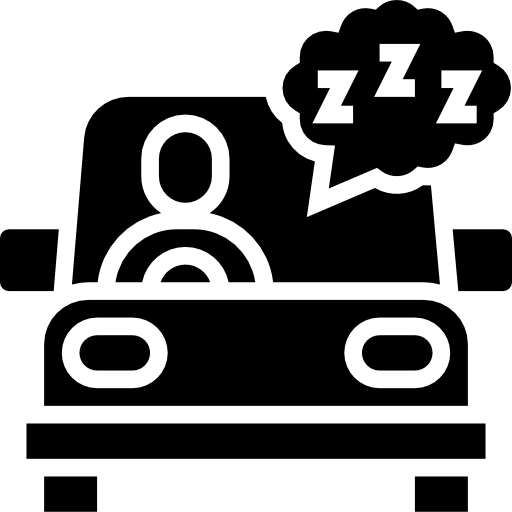
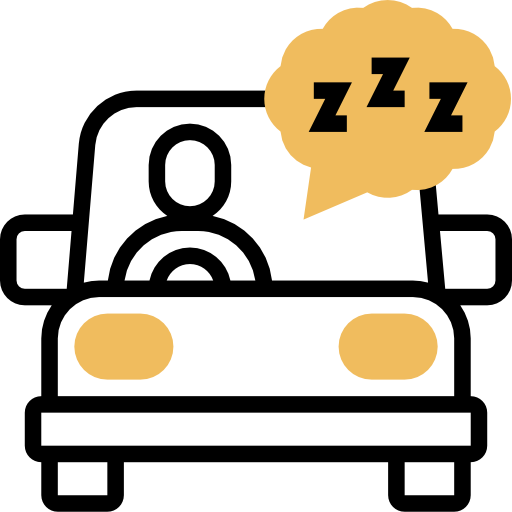
Feat : 내 경로로 찾기 기능 추가

diff --git a/src/utils/journey.js b/src/utils/journey.js
@@ -1,0 +1,70 @@
+import { areaDirections } from './directionGroups.js'
+const aliases={'서울외곽순환':'수도권제1순환','대전통영':'통영대전','당진영덕':'청주영덕','상주영덕':'청주영덕','대구포항':'새만금포항','익산장수':'완주장수','구리포천':'세종포천','남해제2지':'남해2지'}
+export function roadKey(value){const name=String(value||'').replace(/\([^)]*\)/g,'').replace(/고속도로/g,'').replace(/\s/g,'').replace(/선$/,'');return aliases[name]||name}
+export const sameRoad=(a,b)=>roadKey(a)===roadKey(b)
+export function journeyHighways(sections){
+ const groups=new Map()
+ for(const section of sections||[])for(const road of section.roads||[]){
+  const name=String(road.name||'').trim()
+  if(!/고속도로(?:지선)?(?:\([^)]*\))?$/.test(name))continue
+  if(!groups.has(name))groups.set(name,{name,distance:0})
+  const group=groups.get(name)
+  if(Number.isFinite(road.distance)&&road.distance>=0)group.distance+=road.distance
+ }
+ return [...groups.values()]
+}
+// Approximate direction-city centres; used only for estimated heading, not entrances.
+const centres={서울:[126.978,37.567],부산:[129.076,35.180],순천:[127.488,34.950],대구:[128.602,35.871],무안:[126.481,34.990],시흥:[126.803,37.380],목포:[126.392,34.812],논산:[127.099,36.188],광양:[127.696,34.940],전주:[127.148,35.824],상주:[128.159,36.411],청원:[127.431,36.565],하남:[127.215,37.540],통영:[128.433,34.855],평택:[127.113,36.993],제천:[128.191,37.132],현풍:[128.447,35.698],마산:[128.573,35.197],양평:[127.487,37.491],인천:[126.705,37.456],강릉:[128.876,37.752],춘천:[127.730,37.881],양양:[128.619,38.075],동해:[129.114,37.525],속초:[128.591,38.207],퇴계원:[127.143,37.650],냉정:[128.808,35.215],서천:[126.692,36.080],공주:[127.119,36.446],대전:[127.385,36.350],밀양:[128.746,35.504],울산:[129.311,35.539],익산:[126.958,35.948],포항:[129.343,36.019],일산:[126.769,37.658],판교:[127.104,37.393],창원:[128.681,35.228],남이:[127.423,36.565],천안:[127.147,36.815],영암:[126.697,34.800],남양주:[127.217,37.636],동탄:[127.070,37.200],봉담:[126.950,37.220],광주:[126.852,35.160],원주:[127.920,37.342],강진:[126.768,34.642],영덕:[129.366,36.416],장수:[127.521,35.648],완주:[127.163,35.904],산인:[128.429,35.286],진주:[128.108,35.180],포천:[127.201,37.895],세종:[127.289,36.480],김해:[128.890,35.228],기장:[129.222,35.244]}
+Object.assign(centres,{구리:[127.129,37.594],근덕:[129.225,37.380],삼척:[129.165,37.450],청주:[127.489,36.640],회덕:[127.426,36.400],산내:[127.453,36.280],고창:[126.702,35.436],담양:[126.988,35.321],달서:[128.533,35.831],동대구:[128.628,35.878],언양:[129.125,35.570],당진:[126.628,36.893],파주:[126.780,37.760],양주:[127.045,37.785],새만금:[126.500,35.820]})
+const xy=point=>[point.lng*89000,point.lat*111000]
+function makeSegments(paths,name){
+ const list=[];let offset=0
+ for(const road of paths||[])if(road.name===name)for(let i=1;i<road.points.length;i++){
+  const a=xy(road.points[i-1]),b=xy(road.points[i]),dx=b[0]-a[0],dy=b[1]-a[1],length=Math.hypot(dx,dy)
+  if(length>0){list.push({a,b,dx,dy,length,offset});offset+=length}
+ }
+ return list
+}
+function atDistance(segments,distance){
+ const last=segments.at(-1)
+ const d=Math.max(0,Math.min(distance,last.offset+last.length))
+ const s=segments.find(segment=>segment.offset+segment.length>=d)||last,t=(d-s.offset)/s.length
+ return [s.a[0]+t*s.dx,s.a[1]+t*s.dy]
+}
+function locate(point,segments){
+ const [x,y]=xy(point);let best=null
+ for(const s of segments){
+  const raw=((x-s.a[0])*s.dx+(y-s.a[1])*s.dy)/(s.length*s.length),t=Math.max(0,Math.min(1,raw))
+  const px=s.a[0]+t*s.dx,py=s.a[1]+t*s.dy,distance=Math.hypot(x-px,y-py)
+  if(!best||distance<best.distance)best={x:px,y:py,distance,offset:s.offset+t*s.length,raw,segment:s}
+ }
+ if(!best||best.distance>1200)return null
+ if(best.segment===segments[0]&&best.raw<0||best.segment===segments.at(-1)&&best.raw>1)return null
+ const before=atDistance(segments,best.offset-1000),after=atDistance(segments,best.offset+1000)
+ const dx=after[0]-before[0],dy=after[1]-before[1],length=Math.hypot(dx,dy)
+ return length?{...best,dx:dx/length,dy:dy/length}:null
+}
+export function journeyGroups(route,areas,shelters){
+ return (route.highways||[]).map(road=>{
+  const segments=makeSegments(route.paths,road.name), stops=[];let unverified=0
+  for(const [type,rows] of [['rest',areas],['shelter',shelters]])for(const area of rows.filter(area=>sameRoad(area.routeName,road.name))){
+   if(!area.coordinates){unverified++;continue}
+   const match=locate(area.coordinates,segments)
+   if(!match)continue
+   const directions=type==='rest'?areaDirections(area):[String(area.direction||'').replace(/방향$/,'').trim()]
+   let direction=null
+   if(directions.includes('양방향'))direction='양방향'
+   else{
+    const scores=directions.filter(label=>centres[label]).map(label=>{
+     const [lng,lat]=label==='광주'&&/광주원주/.test(roadKey(road.name))?[127.255,37.429]:centres[label],[x,y]=xy({lng,lat}),dx=x-match.x,dy=y-match.y
+     return {label,score:(dx*match.dx+dy*match.dy)/Math.hypot(dx,dy)}
+    })
+    const forward=scores.filter(value=>value.score>.35)
+    if(forward.length===1)direction=forward[0].label
+    else if(!scores.length||scores.some(value=>Math.abs(value.score)<=.35))unverified++
+   }
+   if(direction)stops.push({...area,kind:type,journeyDirection:direction,journeyOffset:match.offset})
+  }
+  return {...road,stops:stops.sort((a,b)=>a.journeyOffset-b.journeyOffset),unverified}
+ })
+}

diff --git a/src/components/RouteSearch.jsx b/src/components/RouteSearch.jsx
@@ -1,3 +1,4 @@
+import { RotateCcw } from 'lucide-react'
 import { useEffect, useRef, useState } from 'react'
 import { request } from '../services/api'
 import PlaceField from './PlaceField'
@@ -5,6 +6,8 @@ import { Search, Swap, Route } from './Icons'
 export default function RouteSearch({ onRoute, currentRoute }) {
   const [origin, setOrigin] = useState(null), [destination, setDestination] = useState(null), [loading, setLoading] = useState(false), [error, setError] = useState('')
   const controllerRef = useRef(null)
+  const [resetVersion,setResetVersion]=useState(0)
+  function reset(){controllerRef.current?.abort();setOrigin(null);setDestination(null);setLoading(false);setError('');setResetVersion(value=>value+1);onRoute(null)}
   useEffect(() => () => controllerRef.current?.abort(), [])
   function change(setter, point) { controllerRef.current?.abort(); setter(point); setLoading(false); setError(''); onRoute(null) }
   async function submit(event) {
@@ -12,9 +15,9 @@ export default function RouteSearch({ onRoute, currentRoute }) {
     if (!origin || !destination) { setError('각 입력창의 검색 버튼을 누른 뒤 검색 결과에서 장소를 선택해 주세요.'); return }
     controllerRef.current?.abort(); const controller = new AbortController(); controllerRef.current = controller
     setLoading(true); setError(''); onRoute(null)
-    try { const result = await request('route', { origin: `${origin.lng},${origin.lat}`, destination: `${destination.lng},${destination.lat}` }, controller.signal); onRoute({ ...result, origin, destination }) }
+    try { const result = await request('route', { origin: `${origin.lng},${origin.lat}`, destination: `${destination.lng},${destination.lat}` }, controller.signal); if(!controller.signal.aborted)onRoute({ ...result, origin, destination }) }
     catch (e) { if (e.name !== 'AbortError') setError(e.message) }
     finally { if (!controller.signal.aborted) setLoading(false) }
   }
-  return <section className="route-search"><div className="route-search-heading"><div><h2>나의 이동 경로 찾기</h2><p>주소 또는 장소명을 검색하고, 검색 결과에서 장소를 선택하세요.</p></div><span className="small-badge"><Route size={12} /> 자동차 기준</span></div><form className="route-form" onSubmit={submit}><PlaceField label="출발지" variant="origin" point={origin} onChange={point => change(setOrigin, point)} /><button className="swap-button" type="button" aria-label="선택한 출발지와 목적지 바꾸기" disabled={!origin || !destination} onClick={() => { controllerRef.current?.abort(); setOrigin(destination); setDestination(origin); setLoading(false); setError(''); onRoute(null) }}><Swap size={18} /></button><PlaceField label="도착지" variant="destination" point={destination} onChange={point => change(setDestination, point)} /><button type="submit" className="button primary" disabled={loading}><Search size={18} /> {loading ? '경로 조회 중…' : '경로 검색'}</button></form>{error && <p className="form-error" role="alert">{error}</p>}{currentRoute && <div className="route-result" role="status"><strong>{currentRoute.origin.name} → {currentRoute.destination.name}</strong><span>{currentRoute.distance == null ? '거리 정보 없음' : `${(currentRoute.distance / 1000).toFixed(1)} km`}</span><span>{currentRoute.duration == null ? '시간 정보 없음' : `${Math.floor(currentRoute.duration / 3600)}시간 ${Math.round((currentRoute.duration % 3600) / 60)}분`}</span><small>출처: 카카오모빌리티 · 예상 소요시간</small></div>}</section>
+  return <section className="route-search"><div className="route-search-heading"><div><h2>나의 이동 경로 찾기</h2><p>주소 또는 장소명을 검색하고, 검색 결과에서 장소를 선택하세요.</p></div><div className="route-heading-actions"><span className="small-badge"><Route size={12} /> 자동차 기준</span><button type="button" className="route-reset" onClick={reset}><RotateCcw size={14}/>처음 화면</button></div></div><form className="route-form" onSubmit={submit}><PlaceField key={`origin:${resetVersion}`} label="출발지" variant="origin" point={origin} onChange={point => change(setOrigin, point)} /><button className="swap-button" type="button" aria-label="선택한 출발지와 목적지 바꾸기" disabled={!origin || !destination} onClick={() => { controllerRef.current?.abort(); setOrigin(destination); setDestination(origin); setLoading(false); setError(''); onRoute(null) }}><Swap size={18} /></button><PlaceField key={`destination:${resetVersion}`} label="도착지" variant="destination" point={destination} onChange={point => change(setDestination, point)} /><button type="submit" className="button primary" disabled={loading}><Search size={18} /> {loading ? '경로 조회 중…' : '경로 검색'}</button></form>{error && <p className="form-error" role="alert">{error}</p>}{currentRoute && <div className="route-result" role="status"><strong>{currentRoute.origin.name} → {currentRoute.destination.name}</strong><span>{currentRoute.distance == null ? '거리 정보 없음' : `${(currentRoute.distance / 1000).toFixed(1)} km`}</span><span>{currentRoute.duration == null ? '시간 정보 없음' : `${Math.floor(Math.ceil(currentRoute.duration/60)/60)}시간 ${Math.ceil(currentRoute.duration/60)%60}분`}</span><small>출처: 카카오모빌리티 · 예상 소요시간</small></div>}</section>
 }

diff --git a/src/components/RouteJourney.jsx b/src/components/RouteJourney.jsx
@@ -1,0 +1,44 @@
+import {useEffect,useMemo,useState} from 'react'
+import {request} from '../services/api'
+import {journeyGroups,sameRoad} from '../utils/journey'
+import {directionLabel} from '../utils/directionGroups'
+import {roadOptions,shelterRoadOption} from '../utils/roadRoutes'
+import RoadBadge from './RoadBadge'
+import HighwayIcon from './HighwayIcon'
+import {Chevron,Refresh} from './Icons'
+export default function RouteJourney({route,data,catalogueError,onCatalogueRetry,onSelect,onShelter,onMatches}) {
+ const [kind,setKind]=useState('all')
+ const [points,setPoints]=useState([]),[loading,setLoading]=useState(true),[issue,setIssue]=useState(''),[retry,setRetry]=useState(0)
+ useEffect(()=>{
+  if(!data){setLoading(!catalogueError);setIssue(catalogueError||'');return}
+  const controller=new AbortController();setLoading(true);setIssue('');setPoints([])
+  async function load(){
+   const result=await request('journey-points',{origin:`${route.origin.lng},${route.origin.lat}`,destination:`${route.destination.lng},${route.destination.lat}`},controller.signal)
+   if(controller.signal.aborted)return
+   setPoints(result.points||[]);setLoading(false)
+   setIssue([result.shelterError,result.failed?`위치 조회에 실패한 ${result.failed}곳이 있습니다.`:''].filter(Boolean).join(' '))
+  }
+  load().catch(error=>{if(!controller.signal.aborted){setIssue(error.message);setLoading(false)}})
+  return()=>controller.abort()
+ },[route,data,retry,catalogueError])
+ const groups=useMemo(()=>journeyGroups(route,points.filter(row=>row.kind==='rest'),points.filter(row=>row.kind==='shelter')),[route,points])
+ useEffect(()=>{onMatches?.(groups.flatMap(group=>group.stops))},[groups,onMatches])
+ return <section className="journey-panel" aria-label="경로별 휴게소와 졸음쉼터"><header><div><h2>이번 경로의 쉼터</h2><p>고속도로 이용 순서 · 진행방향 기준</p></div><button type="button" className="text-button" disabled={loading} onClick={()=>data?setRetry(value=>value+1):onCatalogueRetry?.()} aria-label="경로 쉼터 다시 조회"><Refresh size={15}/></button></header>
+  {!groups.length?<p className="journey-message">이 경로에는 고속도로 명칭이 제공되지 않았습니다.</p>:<>
+   <ol className="journey-road-flow">{groups.map(road=><li key={road.name}>{road.name}</li>)}</ol>
+   {loading&&<p className="journey-message" role="status">진행방향의 휴게소와 졸음쉼터 위치를 확인하고 있습니다…</p>}
+   {issue&&<p className="journey-message" role="alert">{issue}</p>}
+   {!loading&&data&&<div className="journey-kind-filters" role="group" aria-label="경로 쉼터 종류">{[['all','전체'],['rest','휴게소'],['shelter','졸음쉼터']].map(([value,label])=><button type="button" key={value} aria-pressed={kind===value} className={kind===value?'active':''} onClick={()=>setKind(value)}>{label} <strong>{groups.reduce((sum,road)=>sum+road.stops.filter(area=>value==='all'||area.kind===value).length,0)}</strong></button>)}</div>}
+   {!loading&&data&&<div className="journey-road-groups">{groups.map(road=>{
+    const options=roadOptions((data?.rows||[]).filter(area=>sameRoad(road.name,area.routeName)))
+    const number=options[0]?.number||shelterRoadOption(points.find(area=>sameRoad(area.routeName,road.name))?.routeName).number
+    const rests=road.stops.filter(row=>row.kind==='rest').length,shelters=road.stops.length-rests
+    return <article key={road.name} className="journey-road-group"><header>{number&&<RoadBadge type="expressway" number={number}/>}<div><h3>{road.name}</h3><p>{(road.distance/1000).toFixed(1)} km 이용 · 휴게소 {rests} · {issue.includes('졸음쉼터 자료')?'졸음쉼터 조회 실패':`졸음쉼터 ${shelters}`}</p></div></header>
+     {!road.stops.filter(area=>kind==='all'||area.kind===kind).length?<p className="journey-empty">위치·진행방향이 일치하는 쉼터를 확인하지 못했습니다.</p>:<div className="journey-stops">{road.stops.filter(area=>kind==='all'||area.kind===kind).map(area=><button type="button" key={`${area.kind}:${area.id}`} onClick={()=>area.kind==='shelter'?onShelter(area):onSelect(area)}><span className={`journey-kind ${area.kind}`}>{area.kind==='rest'?'휴게소':'졸음쉼터'}</span><span className="journey-stop-name"><strong>{area.name}{area.kind==='shelter'&&!area.name.includes('졸음쉼터')?' 졸음쉼터':''}</strong><small><HighwayIcon size={12}/>{directionLabel(area.journeyDirection)}</small></span><Chevron size={15}/></button>)}</div>}
+     {road.unverified>0&&<p className="journey-exclusions">해당 노선 위치·방향 미확인 {road.unverified}곳 제외</p>}
+    </article>
+   })}</div>}
+  </>}
+  <p className="journey-caption">경로 주변 1.2km 이내 위치와 진행방향으로 추린 참고 정보입니다. 양방향 휴게소를 포함하며 실제 진입 가능 여부는 길찾기로 확인하세요.</p>
+ </section>
+}

diff --git a/src/components/LiveMap.jsx b/src/components/LiveMap.jsx
@@ -1,3 +1,4 @@
+import shelterIcon from '../../icons/shelter-pin.svg'
 import { LocateFixed, ExternalLink, Camera, Map as MapIcon } from 'lucide-react'
 import { useEffect, useRef, useState } from 'react'
 import { Pin, Layers, Info } from './Icons'
@@ -62,9 +63,10 @@ export default function LiveMap({ apiKey, route, areas, onSelect, selectedId, sh
     }
     for (const area of areas.filter(area => area.coordinates)) {
       const point = new maps.LatLng(area.coordinates.lat, area.coordinates.lng)
+      const isShelter=area.kind==='shelter'
       const width = area.id === selectedId ? 56 : 48
       const height = area.id === selectedId ? 74 : 64
-      const image = new maps.MarkerImage(restAreaPin, new maps.Size(width, height), { offset: new maps.Point(width / 2, height) })
+      const image = new maps.MarkerImage(isShelter?shelterIcon:restAreaPin, new maps.Size(width, height), { offset: new maps.Point(width / 2, height) })
       const marker = new maps.Marker({ map, position: point, title: area.name, image, zIndex: area.id === selectedId ? 10 : 1 })
       maps.event.addListener(marker, 'click', () => onSelect?.(area))
       objects.current.push(marker)
@@ -99,7 +101,7 @@ export default function LiveMap({ apiKey, route, areas, onSelect, selectedId, sh
     }catch{clearTimeout(timer);setStreetStatus('거리뷰를 연결하지 못했습니다. 잠시 후 다시 시도해 주세요.')}
     return()=>{active=false;clearTimeout(timer)}
   },[streetView,ready,target?.id,target?.coordinates?.lat,target?.coordinates?.lng])
-  return <section className={`map-pane ${locationOnly?'location-only':''} ${streetView?'is-roadview':''}`} aria-label="휴게소 위치 지도">{!locationOnly&&<div className="map-toolbar"><span><Layers size={16} /> {title}</span><span className={`small-badge ${ready ? 'success' : ''}`}>{ready ? `Kakao Maps · 위치 ${areas.filter(area=>area.coordinates).length}곳` : '지도 연결 대기'}</span></div>}<div ref={host} className="map-canvas" />{!ready && <div className="map-state"><div className="map-grid" aria-hidden="true" /><div className="map-message"><span className="map-message-icon"><Pin size={31} /></span><h3>{error ? '지도 연결을 확인해 주세요' : apiKey ? '지도를 불러오는 중입니다' : '여행의 경로를 한눈에'}</h3><p>{error || (apiKey ? '잠시만 기다려 주세요.' : '지도 서비스 연결 후 실제 자동차 경로와\n공식 주소에서 확인한 휴게소 위치를 표시합니다.')}</p>{error && <button className="button secondary" onClick={() => setRetry(value => value + 1)}>다시 연결</button>}<span className="map-state-caption"><Info size={13} /> 실제 지도 연결 전 안내 화면</span></div></div>}{!locationOnly&&<div className="map-legend">{!locationOnly&&<span><i /> 자동차 이동 경로</span>}<span><img src={restAreaIcon} width="18" height="18" alt="" /> 휴게소 · 주소 기반 위치</span></div>}{locationOnly&&<>
+  return <section className={`map-pane ${locationOnly?'location-only':''} ${streetView?'is-roadview':''}`} aria-label="휴게소 위치 지도">{!locationOnly&&<div className="map-toolbar"><span><Layers size={16} /> {title}</span><span className={`small-badge ${ready ? 'success' : ''}`}>{ready ? `Kakao Maps · 위치 ${areas.filter(area=>area.coordinates).length}곳` : '지도 연결 대기'}</span></div>}<div ref={host} className="map-canvas" />{!ready && <div className="map-state"><div className="map-grid" aria-hidden="true" /><div className="map-message"><span className="map-message-icon"><Pin size={31} /></span><h3>{error ? '지도 연결을 확인해 주세요' : apiKey ? '지도를 불러오는 중입니다' : '여행의 경로를 한눈에'}</h3><p>{error || (apiKey ? '잠시만 기다려 주세요.' : '지도 서비스 연결 후 실제 자동차 경로와\n공식 주소에서 확인한 휴게소 위치를 표시합니다.')}</p>{error && <button className="button secondary" onClick={() => setRetry(value => value + 1)}>다시 연결</button>}<span className="map-state-caption"><Info size={13} /> 실제 지도 연결 전 안내 화면</span></div></div>}{!locationOnly&&<div className="map-legend">{!locationOnly&&<span><i /> 자동차 이동 경로</span>}<span><img src={restAreaIcon} width="18" height="18" alt="" /> 휴게소 · 주소 기반 위치</span>{areas.some(area=>area.kind==='shelter')&&<span><img src={shelterIcon} width="18" height="18" alt=""/>졸음쉼터</span>}</div>}{locationOnly&&<>
       {streetView&&<div className="location-roadview"><div ref={roadviewHost} className="location-roadview-canvas" aria-label={`${target?.name||'휴게소'} 거리뷰`}/>{streetStatus&&<p className="roadview-status" role="status">{streetStatus}</p>}</div>}
       <div className="location-map-actions">
         <button type="button" onClick={resetPosition} disabled={!ready}><LocateFixed size={15}/>원래 위치</button>

diff --git a/src/dashboard.css b/src/dashboard.css
@@ -98,3 +98,9 @@
 .brand-store-hours{flex-wrap:wrap;row-gap:8px}.brand-business-status{display:inline-flex;align-items:center;gap:5px;margin-left:auto;white-space:nowrap;font-size:11px;font-weight:700;letter-spacing:0}.brand-business-status i{width:5px;height:5px;border-radius:50%;background:currentColor;flex-shrink:0}.brand-business-status.open{color:#247956}.brand-business-status.closing{color:#b77914}.brand-business-status.closed,.brand-business-status.unknown{color:#94a0aa}
 
 .shelter-grid>button.shelter-card{display:block;width:100%;text-align:left;font:inherit;color:inherit;cursor:pointer}.shelter-grid>button.shelter-card:hover{border-color:#8eb8b2}.shelter-detail-road{display:flex;align-items:center;gap:10px;padding:4px 0 16px}.shelter-detail-road>strong{font-size:14px}.shelter-detail-road>span:last-child{margin-left:auto;display:flex;align-items:center;gap:6px;color:#5b807f;font-size:12px}
+
+.journey-panel{padding:22px;min-width:0;border-left:1px solid #e0e8ee;max-height:680px;overflow:auto}.journey-panel>header{display:flex;align-items:center;justify-content:space-between;gap:12px;margin-bottom:16px}.journey-panel h2{font-size:18px}.journey-panel header p{font-size:11px;color:#8597a3;margin-top:5px;line-height:1.7}.journey-road-flow{display:flex;flex-wrap:wrap;gap:7px;list-style:none;padding:0;margin:0 0 16px}.journey-road-flow li{font-size:11px;color:#3d7379;padding:6px 8px;background:#edf5f4;border-radius:4px}.journey-road-groups{display:grid;gap:16px}.journey-road-group{border:1px solid #dce6ec;border-radius:9px;overflow:hidden}.journey-road-group>header{display:flex;align-items:center;gap:9px;background:#f6f9fa;padding:13px}.journey-road-group h3{font-size:13px;line-height:1.6}.journey-stops{padding:0 12px}.journey-stops>button{display:flex;align-items:center;gap:9px;width:100%;min-width:0;border:0;border-bottom:1px solid #edf1f4;background:white;padding:13px 0;text-align:left;color:#385362}.journey-stops>button:last-child{border-bottom:0}.journey-stops>button:hover{color:#148478}.journey-kind{flex-shrink:0;font-size:9px;color:#407f71;background:#edf6f1;padding:4px 5px;border-radius:4px}.journey-kind.shelter{color:#5f78a1;background:#eff3fa}.journey-stop-name{flex:1;min-width:0}.journey-stop-name strong{display:block;font-size:12px;overflow-wrap:anywhere}.journey-stop-name small{display:flex;align-items:center;gap:4px;margin-top:5px;color:#8a9ca7;font-size:10px}.journey-message,.journey-empty{font-size:12px;color:#8395a1;padding:15px 10px;line-height:1.9}.journey-exclusions{font-size:10px;color:#98a6af;padding:8px 12px;border-top:1px solid #edf1f4}.journey-caption{margin-top:18px;font-size:10px;line-height:1.9;color:#91a0aa}@media(max-width:850px){.journey-panel{border-left:0;border-top:1px solid #e0e8ee;max-height:none}.journey-road-groups{grid-template-columns:repeat(2,minmax(0,1fr))}}@media(max-width:600px){.journey-panel{padding:18px 16px}.journey-road-groups{grid-template-columns:minmax(0,1fr)}}
+
+.route-heading-actions{display:flex;align-items:center;gap:12px;margin-left:auto}.route-reset{display:inline-flex;align-items:center;justify-content:center;gap:6px;border:1px solid #dce6eb;border-radius:6px;background:white;padding:7px 10px;font-size:11px;color:#617e89;white-space:nowrap}.route-reset:hover{background:#f0f7f5;color:#226e64}@media(max-width:600px){.route-heading-actions .small-badge{display:none}.route-reset{font-size:10px;padding:6px 8px}.route-search-heading{align-items:flex-start}.route-search-heading>div:first-child{min-width:0;flex:1}}
+
+.journey-kind-filters{display:flex;flex-wrap:wrap;gap:7px;margin:0 0 15px}.journey-kind-filters button{display:flex;align-items:center;gap:6px;padding:7px 9px;border:1px solid #dbe5e9;border-radius:5px;background:white;font-size:11px;color:#7b8d98}.journey-kind-filters button.active{background:#eff7f4;border-color:#8db8af;color:#2b7868}.journey-kind-filters strong{font-size:10px;font-variant-numeric:tabular-nums}

diff --git a/server/api.js b/server/api.js
@@ -1,3 +1,4 @@
+import { journeyHighways, sameRoad } from '../src/utils/journey.js'
 import { geocodeArea, shelterPlace, coordinates as geocodedCoordinates } from './geocoding.js'
 import fs from 'node:fs'
 import { operationFor, foodHoursFor } from './rest-area-info.js'
@@ -215,6 +216,7 @@ async function route(search) {
   }
   const url = new URL('https://apis-navi.kakaomobility.com/v1/directions')
   url.search = new URLSearchParams({ origin: point(search.get('origin')), destination: point(search.get('destination')), summary: 'false', road_details: 'true', alternatives: 'false', priority: 'RECOMMEND' }).toString()
+  return cached(`directions:${key}:${url.search}`,async()=>{
   const body = await fetchJson(url, { Authorization: `KakaoAK ${key}` })
   const result = body.routes?.[0]
   if (!result || result.result_code !== 0) throw new ApiError('자동차 이동 경로를 찾을 수 없습니다. 다른 장소를 선택해 주세요.', 422, 'ROUTE_NOT_FOUND')
@@ -227,7 +229,31 @@ async function route(search) {
     }
     if (points.length) paths.push({ name: text(road.name), points })
   }
-  return { distance: number(result.summary?.distance), duration: number(result.summary?.duration), paths, source: '카카오모빌리티', restAreas: [], matchingStatus: 'unverified', matchingMessage: '휴게소 진입 방향·도로 연결 정보가 없어 경로상 휴게소를 아직 확정할 수 없습니다. 아래 목록은 전체 휴게소입니다.' }
+  return { distance: number(result.summary?.distance), duration: number(result.summary?.duration), paths, highways:journeyHighways(result.sections), source:'카카오모빌리티', matchingMessage:'휴게소·졸음쉼터는 경로 주변 위치와 진행방향을 대조한 참고 정보입니다. 실제 진입은 현장 안내와 길찾기를 확인하세요.' }
+  })
+}
+async function journeyPoints(search) {
+  const routeData=await route(search),env=settings()
+  const cacheKey=`journey-points:${search.get('origin')}:${search.get('destination')}:${env.EX_API_KEY}:${env.KAKAO_REST_API_KEY||env.ROUTE_API_KEY}`
+  const result=await cached(cacheKey,async()=>{
+    const data=await areas()
+    let shelterRows=[],shelterError=''
+    try{shelterRows=(await shelters()).rows}catch{ shelterError='졸음쉼터 자료를 불러오지 못했습니다.' }
+    const relevant=area=>(routeData.highways||[]).some(road=>sameRoad(road.name,area.routeName))
+    const tasks=[...data.rows.filter(relevant).map(area=>({...area,kind:'rest'})),...shelterRows.filter(relevant).map(area=>({...area,kind:'shelter'}))]
+    const points=[];let cursor=0,failed=0
+    async function worker(){while(cursor<tasks.length){
+      const area=tasks[cursor++]
+      try{
+        const point=area.coordinates?area:area.kind==='rest'?await areaPoint(area):(await shelterPoint(area.id)).row
+        points.push({...area,coordinates:point?.coordinates||null,address:point?.address||area.address})
+      }catch{failed++;points.push({...area,coordinates:null})}
+    }}
+    await Promise.all(Array.from({length:4},worker))
+    return {points,failed,shelterError}
+  })
+  if(result.failed||result.shelterError)cache.delete(cacheKey)
+  return result
 }
 async function parkingData() {
   const key = settings().PARKING_API_KEY || settings().ODCLOUD_API_KEY
@@ -300,6 +326,7 @@ export async function api(path, search) {
   if (path === '/api/map-point') return mapPoint(search.get('id'))
   if (path === '/api/map-points') return mapPoints()
   if (path === '/api/places') return places(search.get('query') || '')
+  if (path === '/api/journey-points') return journeyPoints(search)
   if (path === '/api/route') return route(search)
   throw new ApiError('요청한 API가 없습니다.', 404, 'NOT_FOUND')
 }

diff --git a/tests/journey.test.js b/tests/journey.test.js
@@ -1,0 +1,19 @@
+import test from 'node:test'
+import assert from 'node:assert/strict'
+import {journeyHighways,journeyGroups,sameRoad} from '../src/utils/journey.js'
+const route=reverse=>({highways:[{name:'경부고속도로',distance:200000}],paths:[{name:'경부고속도로',points:reverse?[{lat:37.5,lng:127},{lat:35.5,lng:127}]:[{lat:35.5,lng:127},{lat:37.5,lng:127}]}]})
+const area=(id,direction,lat=36.5)=>({id,name:`쉼터(${direction})`,routeName:'경부선',directions:[direction],direction,coordinates:{lat,lng:127}})
+test('extracts expressway names in first-use order, sums segments and preserves section labels',()=>{
+ const groups=journeyHighways([{roads:[{name:'일반국도',distance:100},{name:'경부고속도로',distance:1000},{name:'경부고속도로',distance:2000},{name:'남해고속도로(순천-부산)',distance:5000},{name:'경부고속도로입구',distance:20}]}])
+ assert.deepEqual(groups,[{name:'경부고속도로',distance:3000},{name:'남해고속도로(순천-부산)',distance:5000}])
+ assert.equal(sameRoad('중부고속도로','중부내륙선'),false)
+ assert.equal(sameRoad('당진영덕고속도로(청주-상주)','당진영덕선(청주영덕)'),true)
+})
+test('rest and shelter filters remove reverse direction, outside segment and unknown positions; shared stays',()=>{
+ const rests=[area('n','서울'),area('s','부산'),area('both','양방향'),area('outside','서울',35),{...area('unknown','서울'),coordinates:null}]
+ const shelters=[area('shelter-n','서울'),area('shelter-s','부산')]
+ const forward=journeyGroups(route(false),rests,shelters)[0]
+ assert.deepEqual(new Set(forward.stops.map(row=>row.id)),new Set(['n','both','shelter-n']))
+ assert.equal(forward.unverified,1)
+ assert.deepEqual(new Set(journeyGroups(route(true),rests,shelters)[0].stops.map(row=>row.id)),new Set(['s','both','shelter-s']))
+})

diff --git a/src/components/ShelterDetail.jsx b/src/components/ShelterDetail.jsx
@@ -12,7 +12,7 @@ export default function ShelterDetail({shelter,apiKey,onClose}) {
     <div className="dialog-header"><div><span className="eyebrow">{shelter.routeName}</span><h2 id="shelter-detail-title">{name}</h2></div><button className="icon-button" type="button" aria-label="졸음쉼터 상세정보 닫기" onClick={onClose}><Close size={23}/></button></div>
     <div className="dialog-content"><div className="shelter-detail-road"><RoadBadge {...shelterRoadOption(shelter.routeName)}/><strong>{shelter.routeName}</strong><span><HighwayIcon size={16}/>{shelter.direction||'방향 정보 없음'}</span></div>
       <dl className="basic-grid"><div><dt>진행방향</dt><dd>{shelter.direction||'정보 없음'}</dd></div><div><dt>노선 이정</dt><dd>{shelter.kilometer==null?'정보 없음':`${shelter.kilometer} km`}</dd></div><div><dt>설치연도</dt><dd>{shelter.installedYear==null?'정보 없음':`${shelter.installedYear}년`}</dd></div><div><dt>자료 기준일</dt><dd>2026.08.01</dd></div></dl>
-      <LocationMap areas={[{...shelter,name:`${name} (${shelter.direction})`}]} apiKey={apiKey} pointEndpoint="shelter-point" placeType="졸음쉼터"/>
+      <LocationMap areas={[{...shelter,kind:'shelter',name:`${name} (${shelter.direction})`}]} apiKey={apiKey} pointEndpoint="shelter-point" placeType="졸음쉼터"/>
       <div className="inline-notice"><Pin size={16}/><p>이정은 해당 노선의 거리 기준점입니다. 현재 위치에서의 거리와 다릅니다. 진입방향은 현장 안내를 확인하세요.</p></div>
       <p className="source-line">출처: 한국도로공사 졸음쉼터 설치현황 · 위치: 카카오 장소 검색</p>
     </div>
